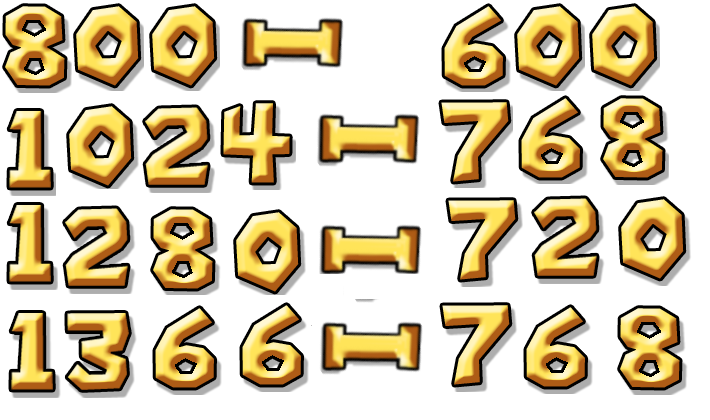
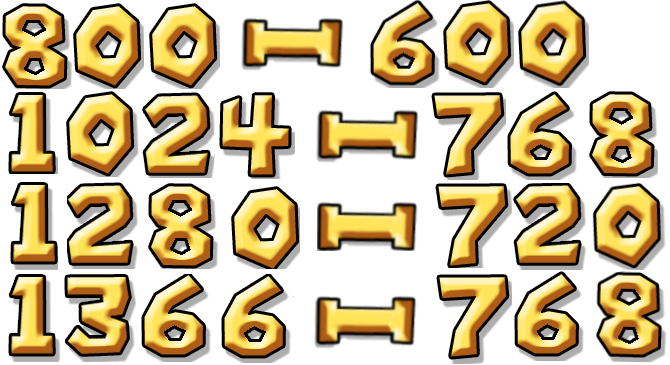
Added final version of changing resolution

diff --git a/SpaceShip/SpaceShip/Objects/Views/SettingsView.cs b/SpaceShip/SpaceShip/Objects/Views/SettingsView.cs
@@ -50,6 +50,9 @@ namespace SpaceShip.Objects.Views
         List<Text> optionSettings;
         List<Number> numberSettings;
 
+
+        Resolution selectedResolution;
+
         bool fullScreenOn = false;
 
         AudioCategory musicCategory;
@@ -75,7 +78,7 @@ namespace SpaceShip.Objects.Views
 
             optionSettings = new List<Text>();
             numberSettings = new List<Number>();
-
+            
             this.soundBank = soundBank;
 
 
@@ -90,15 +93,23 @@ namespace SpaceShip.Objects.Views
             int left = device.Viewport.Width / 2 - MENU_WIDTH / 2;
             int top = device.Viewport.Height / 2 - (MENU_HEIGHT + STEP * 4) / 2;
 
+            
             menuItems.Clear();
             optionSettings.Clear();
             numberSettings.Clear();
 
+            // load text + texture for RESOLUTION option menu
             menuItems.Add(new AnimatedUiObject(FRAMECOUNT, MENU_WIDTH, MENU_HEIGHT, new Vector2(left, top),
                 contentManager.Load<Texture2D>(AssetsConstants.MENU_RESOLUTION), MENU_FRAMERATE));
 
-            optionSettings.Add(new Text(contentManager, device, "TODO", left + MENU_ITEM_VALUE_RIGHT_PADDING, top));
+            // load text + textures for selectec resolution
+            selectedResolution = new Resolution(contentManager, device, left + MENU_ITEM_VALUE_RIGHT_PADDING, top);
 
+            //optionSettings.Add(new Text(contentManager, device, "michal", left + MENU_ITEM_VALUE_RIGHT_PADDING, top));
+            //optionSettings.Add(new Text(contentManager, device, "michal", left + MENU_ITEM_VALUE_RIGHT_PADDING, top));
+            
+
+            // load text + texture for FULL SCREEN option menu
             menuItems.Add(new AnimatedUiObject(FRAMECOUNT, MENU_WIDTH, MENU_HEIGHT, new Vector2(left, top + STEP),
                 contentManager.Load<Texture2D>(AssetsConstants.MENU_FULLSCREEN), MENU_FRAMERATE));
 
@@ -160,6 +171,9 @@ namespace SpaceShip.Objects.Views
             {
                 item.DrawText(spriteBatch);
             }
+
+            selectedResolution.DrawResolution(spriteBatch, currentResolution);
+
             base.Draw(spriteBatch, gameTime);
         }
 
@@ -268,7 +282,7 @@ namespace SpaceShip.Objects.Views
             }
             else if (selectedItemIndex == 1)
             {
-                UpdateTextValueOfActualMenuItem(optionSettings[selectedItemIndex]);
+                UpdateTextValueOfActualMenuItem(optionSettings[selectedItemIndex - 1]);
             }
             else if (selectedItemIndex == 2)
             {                

diff --git a/SpaceShip/SpaceShip/Objects/Resolution.cs b/SpaceShip/SpaceShip/Objects/Resolution.cs
@@ -1,0 +1,45 @@
+using Microsoft.Xna.Framework;
+using Microsoft.Xna.Framework.Graphics;
+using SpaceShip.Classes;
+using System;
+using System.Collections.Generic;
+using System.Linq;
+using System.Text;
+
+namespace SpaceShip.Objects
+{
+    class Resolution : BaseUiObject
+    {
+        const int WIDTH = 680;
+        const int HEIGHT = 90;
+        int x = 0;
+        int y = 0;
+
+        /// <summary>
+        /// Initializes a new instance of the <see cref="Resolution"/> class.
+        /// </summary>
+        /// <param name="contentManager">The content manager.</param>
+        /// <param name="device">The device.</param>
+        /// <param name="left">The left position of selected resolution</param>
+        /// <param name="top">The top position of selected resolution</param>
+        public Resolution(Microsoft.Xna.Framework.Content.ContentManager contentManager, GraphicsDevice device, int left, int top)
+        {
+            sprite = contentManager.Load<Texture2D>(AssetsConstants.MENU_OPTIONS_RESOLUTIONS);
+            x = left;
+            y = top;
+        }
+
+        /// <summary>
+        /// Draws the selected resolution.
+        /// </summary>
+        /// <param name="spriteBatch">The sprite batch.</param>
+        /// <param name="resolution">The resolution.</param>
+        public void DrawResolution(SpriteBatch spriteBatch, ScreenResultions resolution)
+        {            
+            drawRectangle = new Rectangle(x, y, WIDTH, HEIGHT);
+            Rectangle sourceRectangle = new Rectangle(0, (int)resolution * HEIGHT, WIDTH, HEIGHT);
+            
+            spriteBatch.Draw(sprite, new Vector2(drawRectangle.X, drawRectangle.Y), sourceRectangle, Color.White, 0.0f, Vector2.Zero, 0.15f, SpriteEffects.None, 0);
+        }
+    }
+}

diff --git a/SpaceShip/SpaceShip/Classes/AssetsConstants.cs b/SpaceShip/SpaceShip/Classes/AssetsConstants.cs
@@ -41,6 +41,7 @@ namespace SpaceShip.Classes
         public const string MENU_RESOLUTION                     = "resolution";
         public const string MENU_FULLSCREEN                     = "fullscreen";
         public const string MENU_SOUND                          = "sound";
+        public const string MENU_OPTIONS_RESOLUTIONS            = "Resolutions";
         
 
         // sounds
